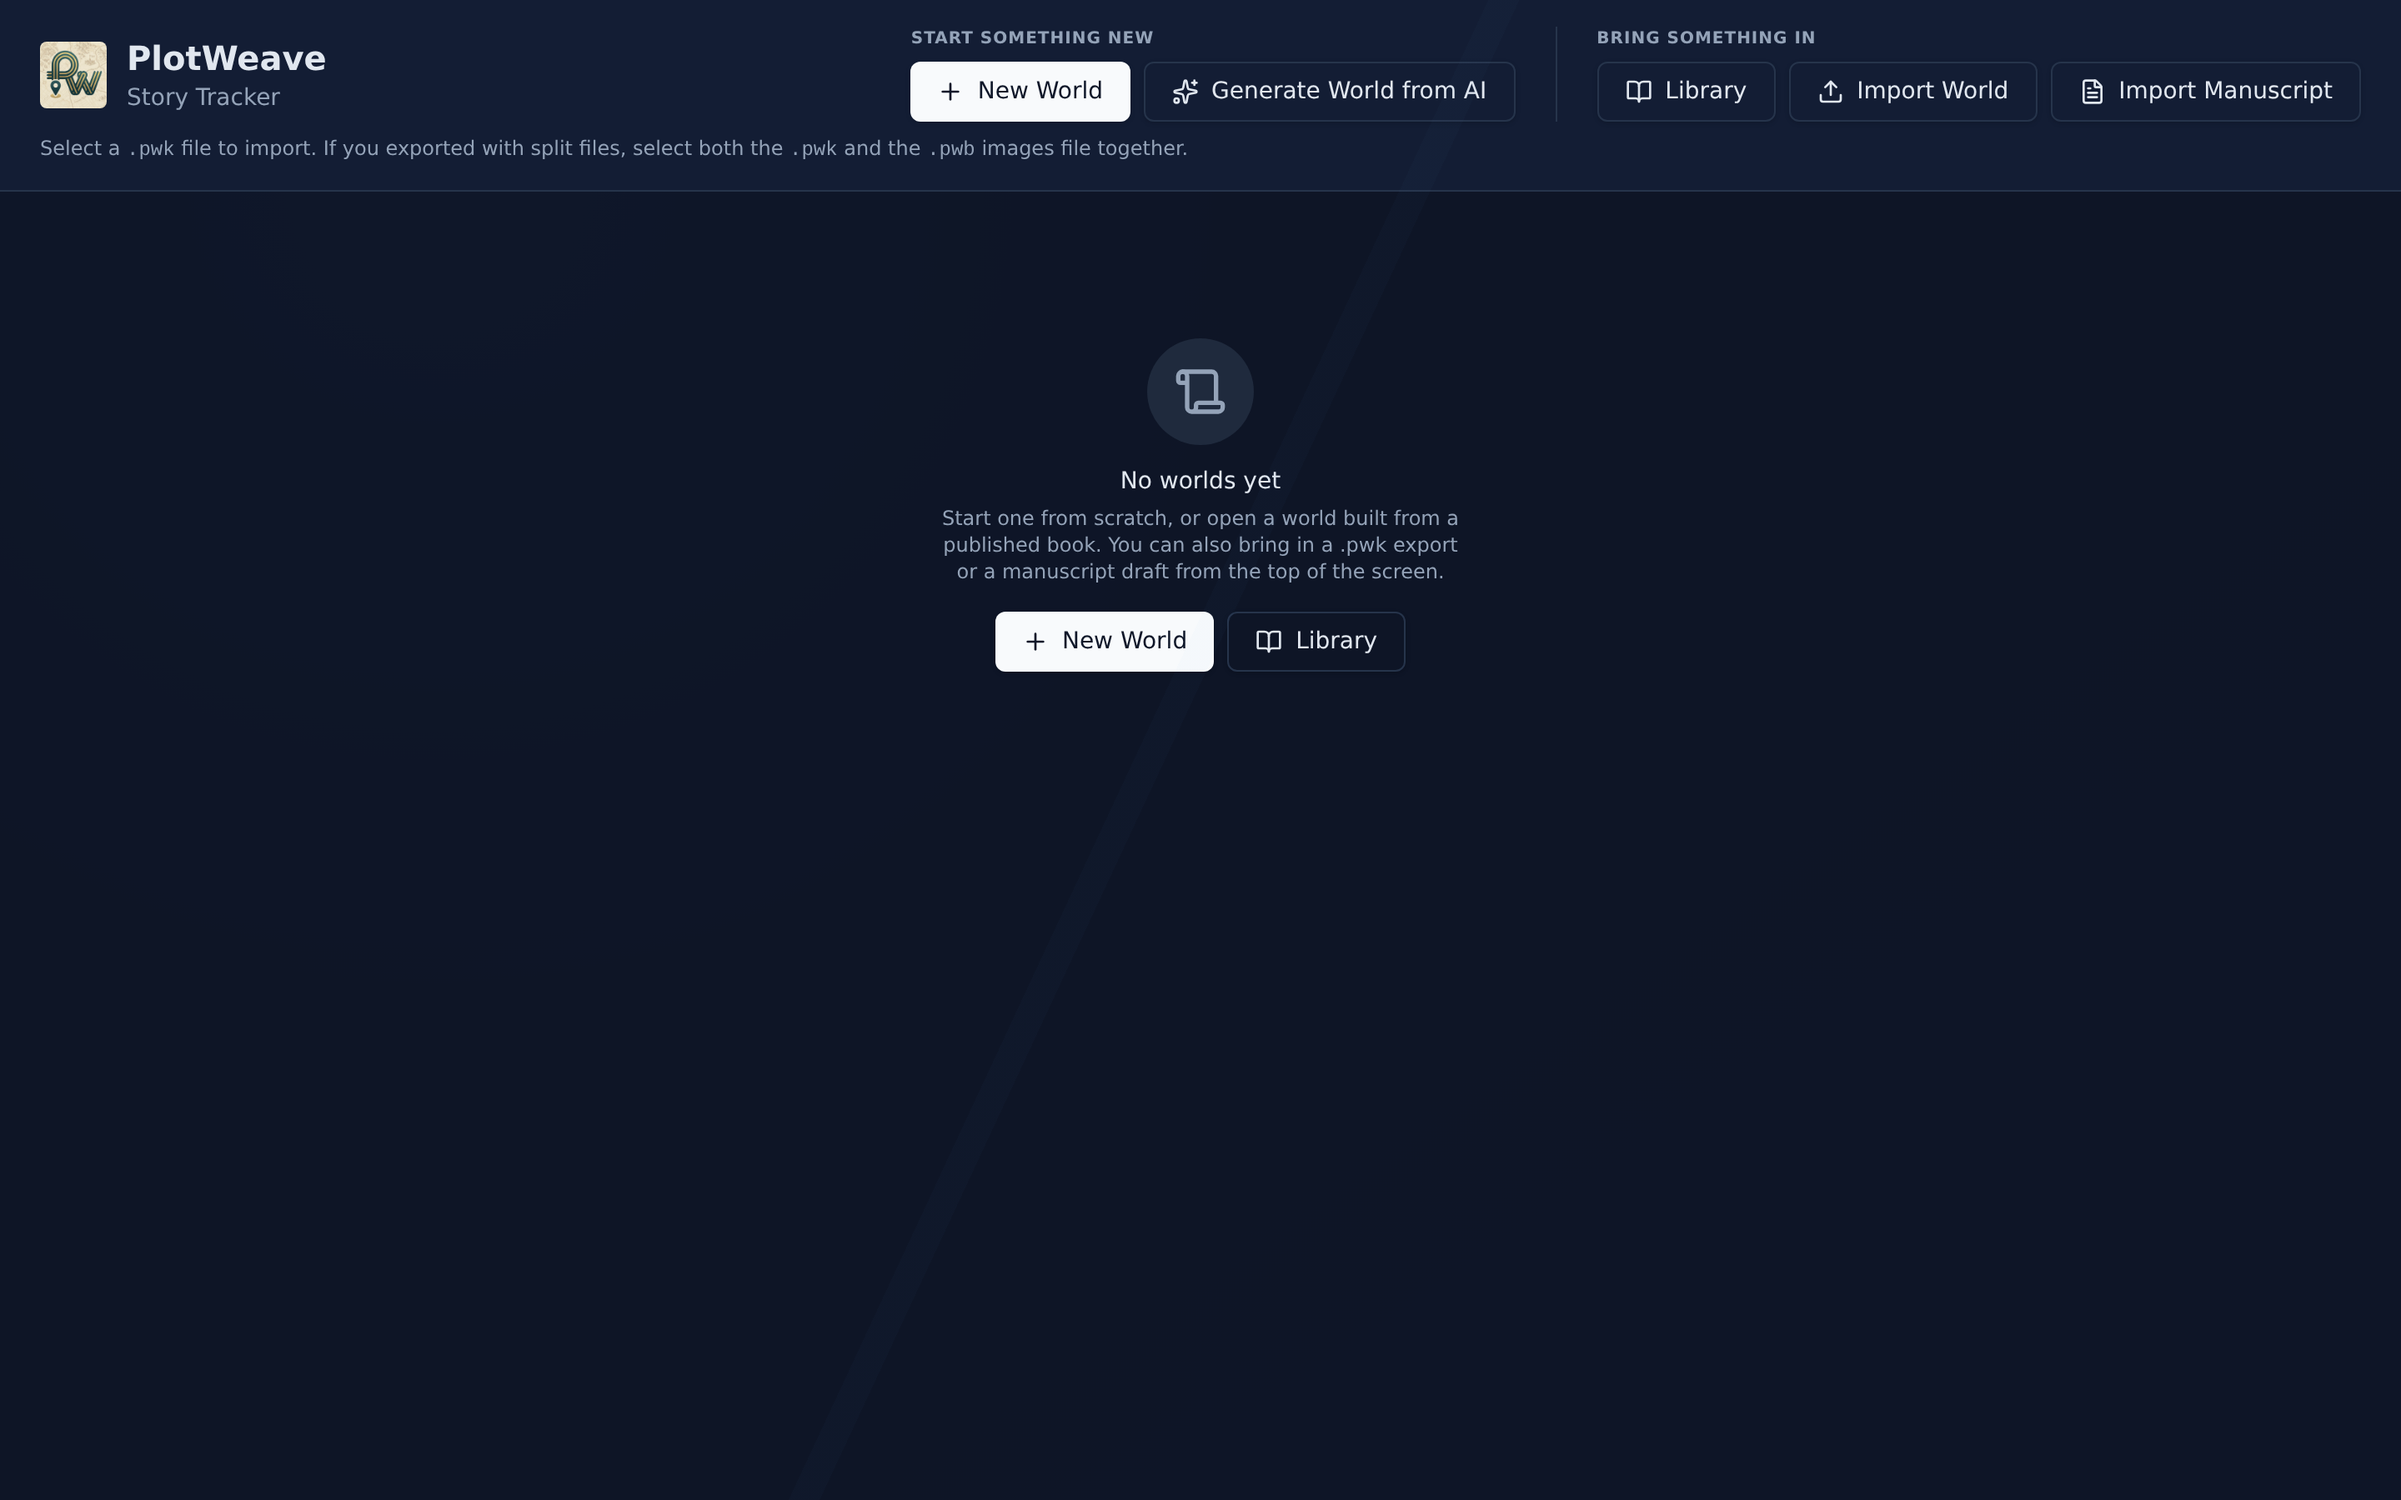
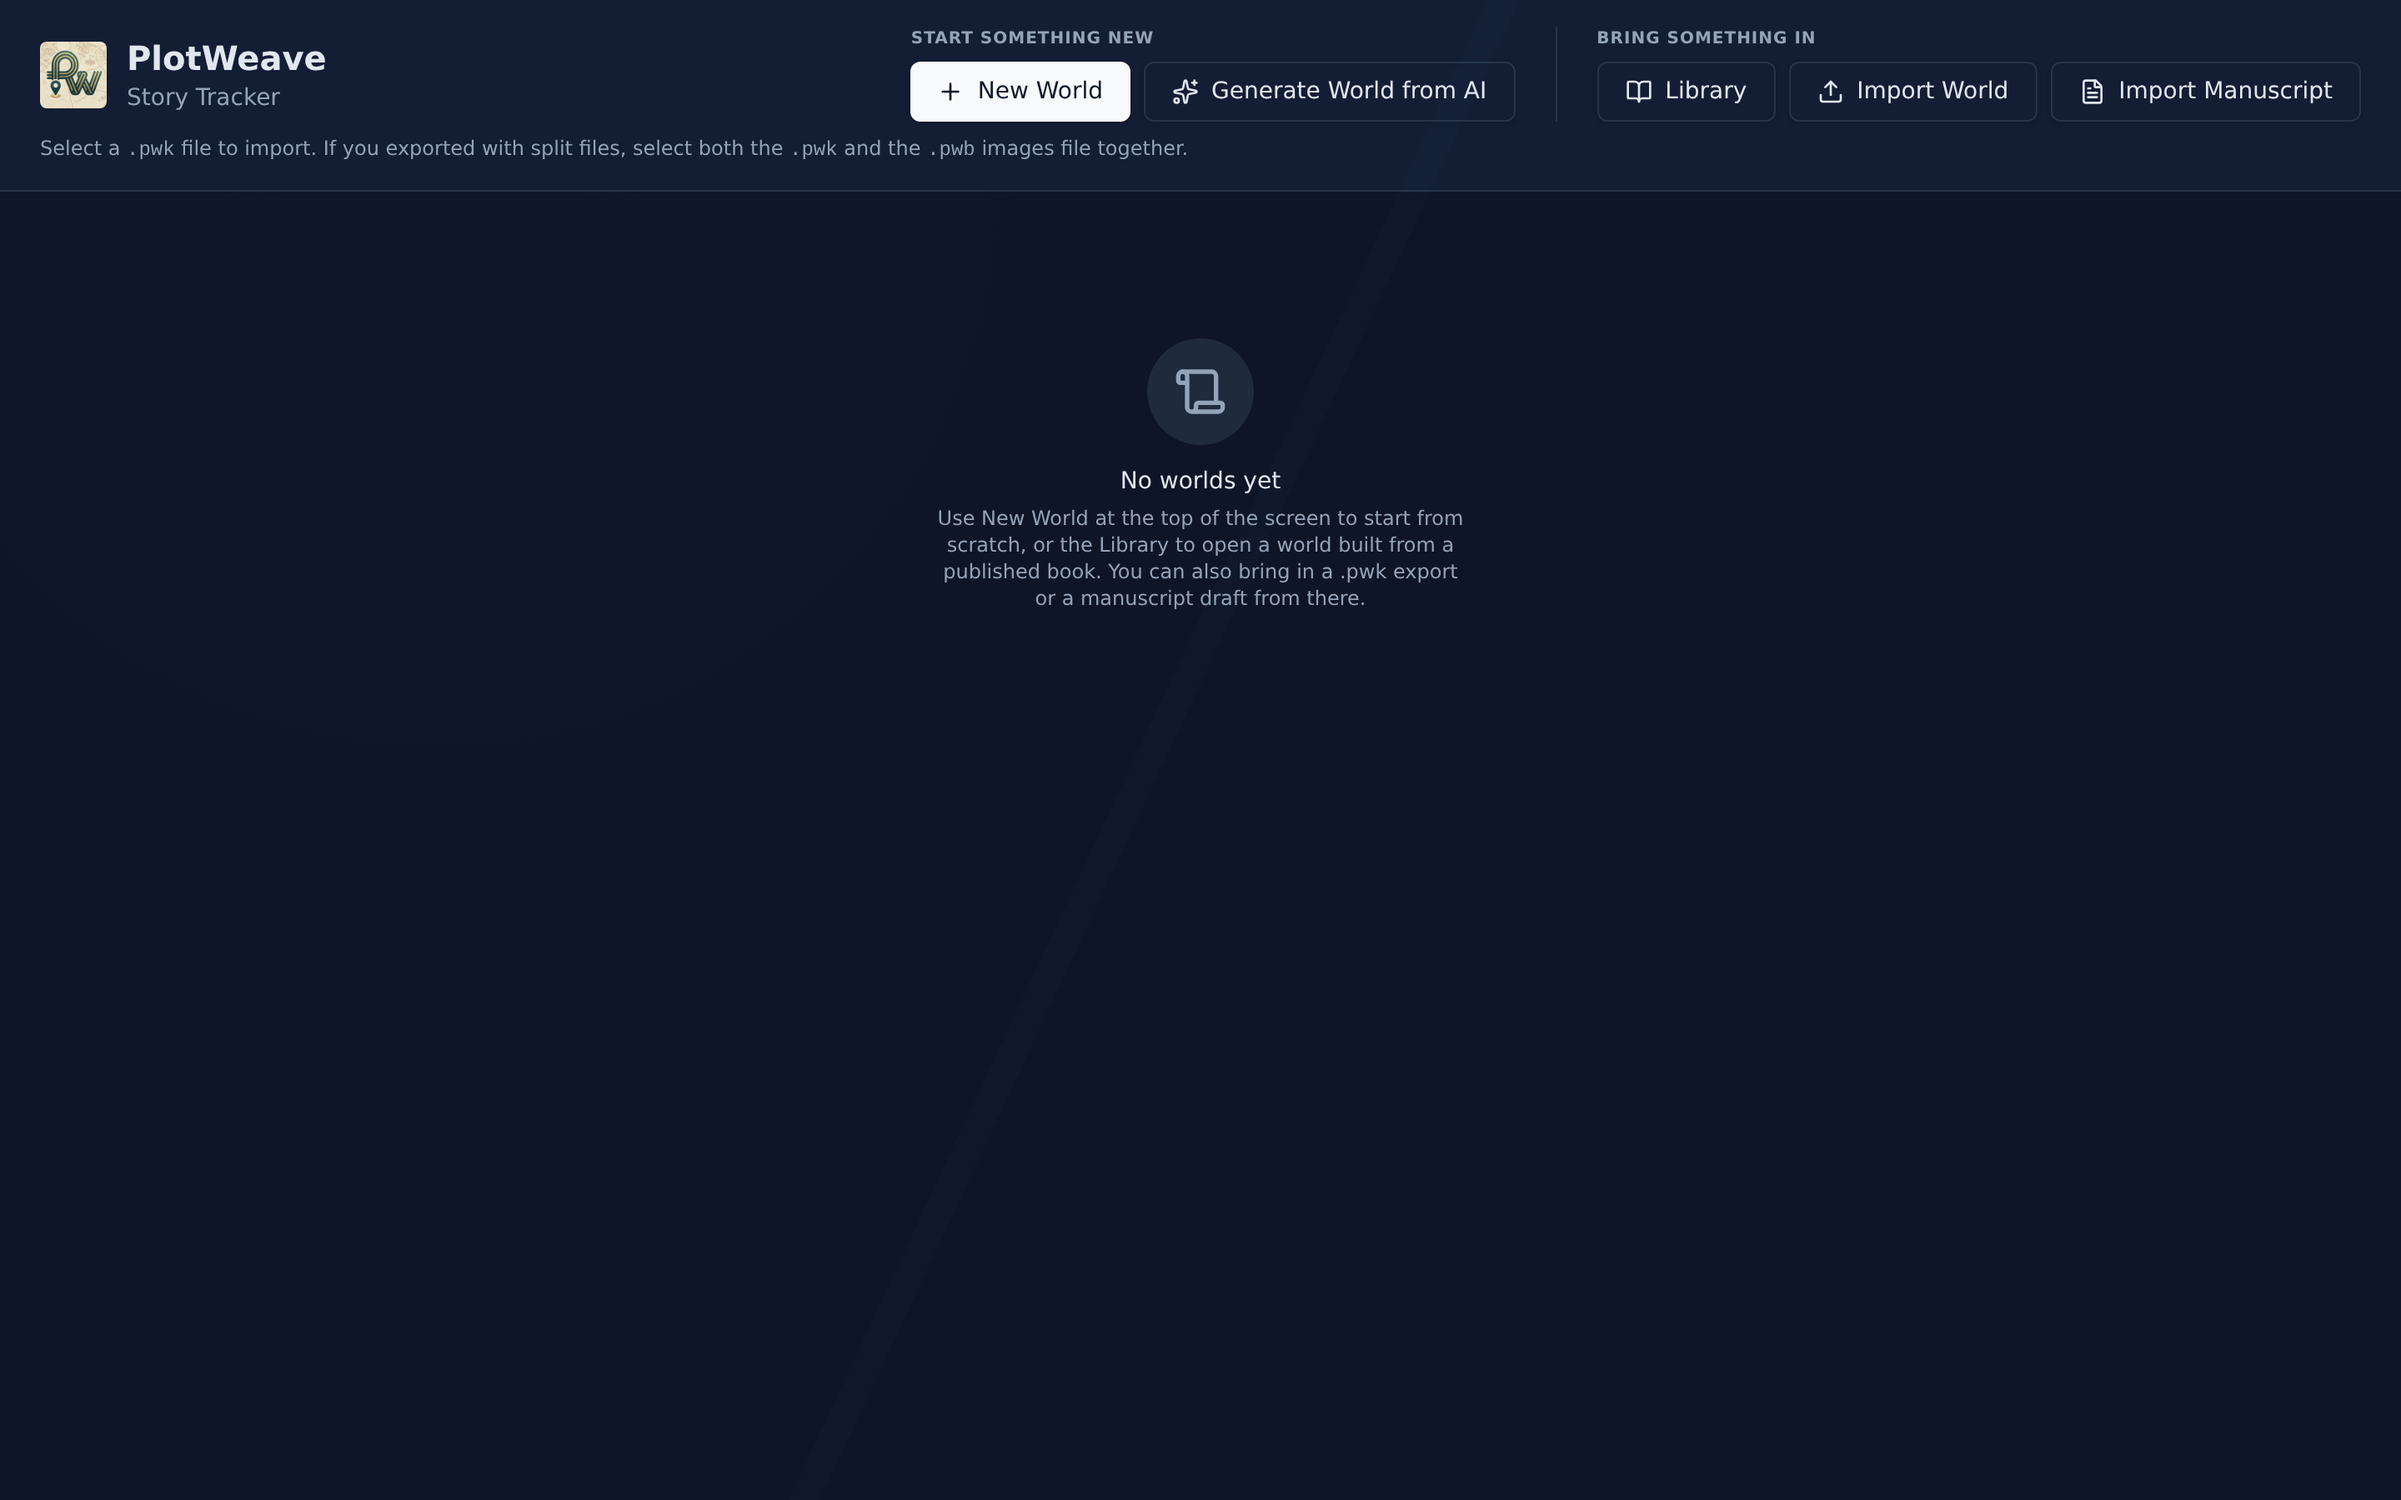
Give the empty shelf prose, not a second copy of the buttons
The previous commit renamed the empty state's button to "New World" so it
matched the header, which put two buttons with that accessible name on an empty
shelf. Nearly every spec opens by clicking that name, so 199 of them broke on a
strict-mode violation. The impact of removing the old buttons was checked; the
impact of adding one was not.

It is also the wrong design, and the failure is what showed it. Any button here
duplicates one already visible a couple of hundred pixels above — Library
included — so repeating them is the same second hierarchy the change set out to
remove, only shorter. Two controls reading "New World" on one screen is an
ambiguity for anyone navigating by name, not only for a test.

So the empty state names the routes in prose and points up at the groups. Every
entry point is exactly one control on the page, which the spec now asserts.

Claude-Session: https://claude.ai/code/session_012HJuZ3q12imk2q9iq8d945

Changed region(s): [[0.375, 0.3422, 0.625, 0.4667]]

diff --git a/e2e/selectorGroups.spec.ts b/e2e/selectorGroups.spec.ts
@@ -46,41 +46,33 @@ test.describe('World selector entry points', () => {
     await expect(page.getByLabel('Name')).toBeVisible()
   })
 
-  test('the empty shelf points at the same routes rather than competing with them', async ({ page }) => {
+  test('the empty shelf points at the entry points instead of repeating them', async ({ page }) => {
     // Three of the five used to sit in the empty state, ungrouped, under the
-    // header's two groups — a second hierarchy with different labels for the
-    // same things, and no Library at all.
+    // header's two groups — a second hierarchy with a different label for the
+    // same thing, and no Library at all. Repeating them here was what caused
+    // that, so it names them in prose and points up.
     await page.goto('/')
     await resetDB(page)
 
     const empty = page.getByRole('main')
     await expect(empty.getByText('No worlds yet')).toBeVisible({ timeout: 30_000 })
+    await expect(empty).toContainText('New World')
+    await expect(empty).toContainText('Library')
 
-    // Two routes, named exactly as the header names them.
-    await expect(empty.getByRole('button', { name: 'New World' })).toBeVisible()
-    await expect(empty.getByRole('button', { name: 'Library' })).toBeVisible()
-
-    // And no second, differently-labelled copy of the rest. Paired with the
-    // presence above, so neither half can pass because the empty state simply
-    // failed to render.
-    for (const gone of ['Create World', 'Import World', 'Import Manuscript', 'Generate World from AI']) {
-      await expect(empty.getByRole('button', { name: gone }),
-        `"${gone}" should live in the header's groups, not be duplicated here`).toHaveCount(0)
+    // Every entry point is exactly one control on this screen. Two buttons
+    // reading "New World" is an ambiguity for anyone navigating by name, not
+    // only for a test — and it is what broke 199 specs when this empty state
+    // briefly carried its own copy.
+    for (const name of ['New World', 'Generate World from AI', 'Library', 'Import World', 'Import Manuscript']) {
+      await expect(page.getByRole('button', { name, exact: true }),
+        `"${name}" should be one button on the page, not two`).toHaveCount(1)
     }
+    // Nothing in the empty state is a control at all.
+    await expect(empty.getByRole('button')).toHaveCount(0)
 
-    // The routes it does not repeat are still one click away above it.
-    await expect(page.getByRole('group', { name: 'Bring something in' })
-      .getByRole('button', { name: 'Import Manuscript' })).toBeVisible()
-
-    // Both empty-state buttons do what they say. New World first, then Library
-    // last — the library is a full overlay, and clicking through it afterwards
-    // is a race rather than a test.
-    await empty.getByRole('button', { name: 'New World' }).click()
+    // Paired presence: the routes it names are live in the header's groups.
+    await page.getByRole('group', { name: 'Start something new' })
+      .getByRole('button', { name: 'New World' }).click()
     await expect(page.getByLabel('Name')).toBeVisible()
-    await page.keyboard.press('Escape')
-    await expect(page.getByLabel('Name')).toHaveCount(0)
-
-    await empty.getByRole('button', { name: 'Library' }).click()
-    await expect(page.getByRole('button', { name: /^Download \(/ }).first()).toBeVisible({ timeout: 30_000 })
   })
 })

diff --git a/src/features/worlds/WorldSelectorView.tsx b/src/features/worlds/WorldSelectorView.tsx
@@ -194,32 +194,24 @@ export default function WorldSelectorView() {
       <main className="flex-1 p-6">
         {worlds.length === 0 ? (
           /*
-            Three of the five entry points, ungainly and ungrouped, used to sit
-            here directly under the header's two groups — a second, competing
-            hierarchy with different labels ("Create World" for the same thing
-            the header calls "New World") and no mention of the Library at all,
-            which is the best first run this app has.
+            No buttons here on purpose.
 
-            So: the one route most people want, the one most people have not
-            thought of, and a sentence pointing at the rest. Repeating all five
-            would only be the original problem twice over.
+            Three of the five entry points used to sit in this space, ungrouped,
+            directly under the header's two labelled groups — a second, competing
+            hierarchy, with a different label for the same thing ("Create World"
+            for what the header calls "New World") and no mention of the Library
+            at all, which is the best first run this app has.
+
+            Repeating a button that is already on screen and already grouped is
+            what caused that, so the empty state names the routes in prose and
+            points up at them instead. It also keeps every entry point to exactly
+            one control: two buttons reading "New World" on one screen is an
+            ambiguity for anyone navigating by name, not only for a test.
           */
           <EmptyState
             icon={Scroll}
             title="No worlds yet"
-            description="Start one from scratch, or open a world built from a published book. You can also bring in a .pwk export or a manuscript draft from the top of the screen."
-            action={
-              <div className="flex flex-wrap justify-center gap-2">
-                <Button onClick={() => setDialogOpen(true)}>
-                  <Plus className="h-4 w-4" />
-                  New World
-                </Button>
-                <Button variant="outline" onClick={() => setLibraryOpen(true)}>
-                  <BookOpen className="h-4 w-4" />
-                  Library
-                </Button>
-              </div>
-            }
+            description="Use New World at the top of the screen to start from scratch, or the Library to open a world built from a published book. You can also bring in a .pwk export or a manuscript draft from there."
           />
         ) : (
           /*

diff --git a/e2e/worlds.spec.ts b/e2e/worlds.spec.ts
@@ -7,9 +7,13 @@ test.describe('World management', () => {
     await resetDB(page)
   })
 
-  test('shows empty state with "Create World" prompt', async ({ page }) => {
+  test('shows the empty state and the ways in', async ({ page }) => {
     await expect(page.getByRole('heading', { name: 'PlotWeave' })).toBeVisible()
-    await expect(page.getByRole('button', { name: 'Create World' })).toBeVisible()
+    await expect(page.getByRole('main')).toContainText('No worlds yet')
+    // The empty state no longer carries its own copy of the entry points — they
+    // live in the header's two groups, one control each.
+    await expect(page.getByRole('group', { name: 'Start something new' })
+      .getByRole('button', { name: 'New World' })).toBeVisible()
   })
 
   test('creates a new world and navigates to its dashboard', async ({ page }) => {

diff --git a/docs/GUIDE.md b/docs/GUIDE.md
@@ -84,10 +84,10 @@ have:
 If your export was split into data + images, select both the `.pwk` and its
 `.pwb` images file together.
 
-With nothing on the shelf yet, the page offers the two routes most people want
-first — **New World** to start from scratch, or the **Library** to open a world
-built from a published book. The other three stay where they always are, in the
-groups along the top.
+With nothing on the shelf yet, the page names the two routes most people want
+first — **New World** to start from scratch, and the **Library** to open a world
+built from a published book — and points at the groups along the top, rather
+than repeating buttons that are already on screen.
 
 ![Empty world selector](images/01-home-empty.png)
 
